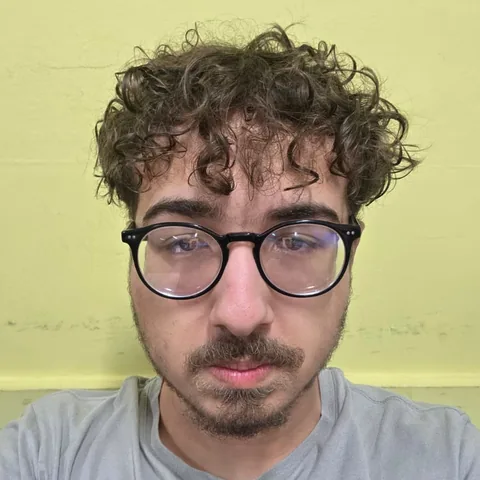
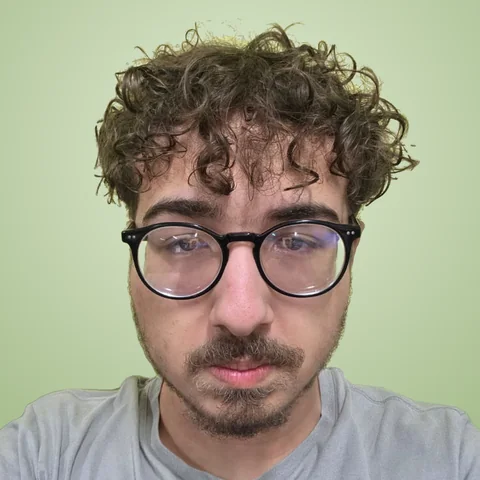
feat: thumbnail do pitch e fotos da equipe com fundo do site

diff --git a/src/styles/sections.css b/src/styles/sections.css
@@ -247,13 +247,10 @@
 .pitch__frame { position: relative; aspect-ratio: 16 / 9; border-radius: var(--radius-xl); overflow: hidden; background: var(--ink-800); box-shadow: 0 40px 100px -40px rgba(0, 0, 0, 0.7); }
 .pitch__frame iframe { width: 100%; height: 100%; border: 0; }
 .pitch__poster { position: absolute; inset: 0; width: 100%; display: block; text-align: left; }
-.pitch__poster::after { content: ''; position: absolute; inset: 0; background: linear-gradient(180deg, rgba(10, 13, 8, 0) 45%, rgba(10, 13, 8, 0.85)); pointer-events: none; }
-.pitch__poster img { width: 100%; height: 100%; object-fit: cover; filter: saturate(0.85) brightness(0.7); transition: transform 0.8s var(--ease-out), filter 0.4s; }
-.pitch__poster:hover img { transform: scale(1.04); filter: saturate(1) brightness(0.8); }
+.pitch__poster img { width: 100%; height: 100%; object-fit: cover; filter: brightness(0.92); transition: transform 0.8s var(--ease-out), filter 0.4s; }
+.pitch__poster:hover img { transform: scale(1.04); filter: brightness(1); }
 .pitch__play { position: absolute; z-index: 1; left: 50%; top: 50%; translate: -50% -50%; width: 84px; height: 84px; border-radius: 50%; display: grid; place-items: center; background: var(--cream); color: var(--ink); box-shadow: 0 0 0 12px rgba(242, 241, 233, 0.15); transition: transform var(--dur) var(--ease); }
 .pitch__poster:hover .pitch__play { transform: scale(1.08); }
-.pitch__label { position: absolute; z-index: 1; left: 24px; bottom: 22px; display: grid; gap: 2px; font-weight: 600; font-size: 1.1rem; color: var(--cream); }
-.pitch__label small { font-weight: 400; font-size: 0.82rem; color: var(--muted-on-dark); }
 @media (max-width: 900px) { .pitch__grid { grid-template-columns: 1fr; } }
 
 /* ================= EQUIPE ================= */

diff --git a/src/sections/Pitch.tsx b/src/sections/Pitch.tsx
@@ -27,9 +27,9 @@ export function Pitch() {
             />
           ) : (
             <button type="button" className="pitch__poster" onClick={() => setPlaying(true)}>
-              <img src={`https://i.ytimg.com/vi/${site.pitchVideoId}/hqdefault.jpg`} alt="" loading="lazy" />
+              <img src="/pitch-thumb.webp" alt="" loading="lazy" width={1280} height={720} />
               <span className="pitch__play"><Play width={28} height={28} /></span>
-              <span className="pitch__label">{video.play}<small>{video.caption}</small></span>
+              <span className="sr-only">{video.play} · {video.caption}</span>
             </button>
           )}
         </div>
